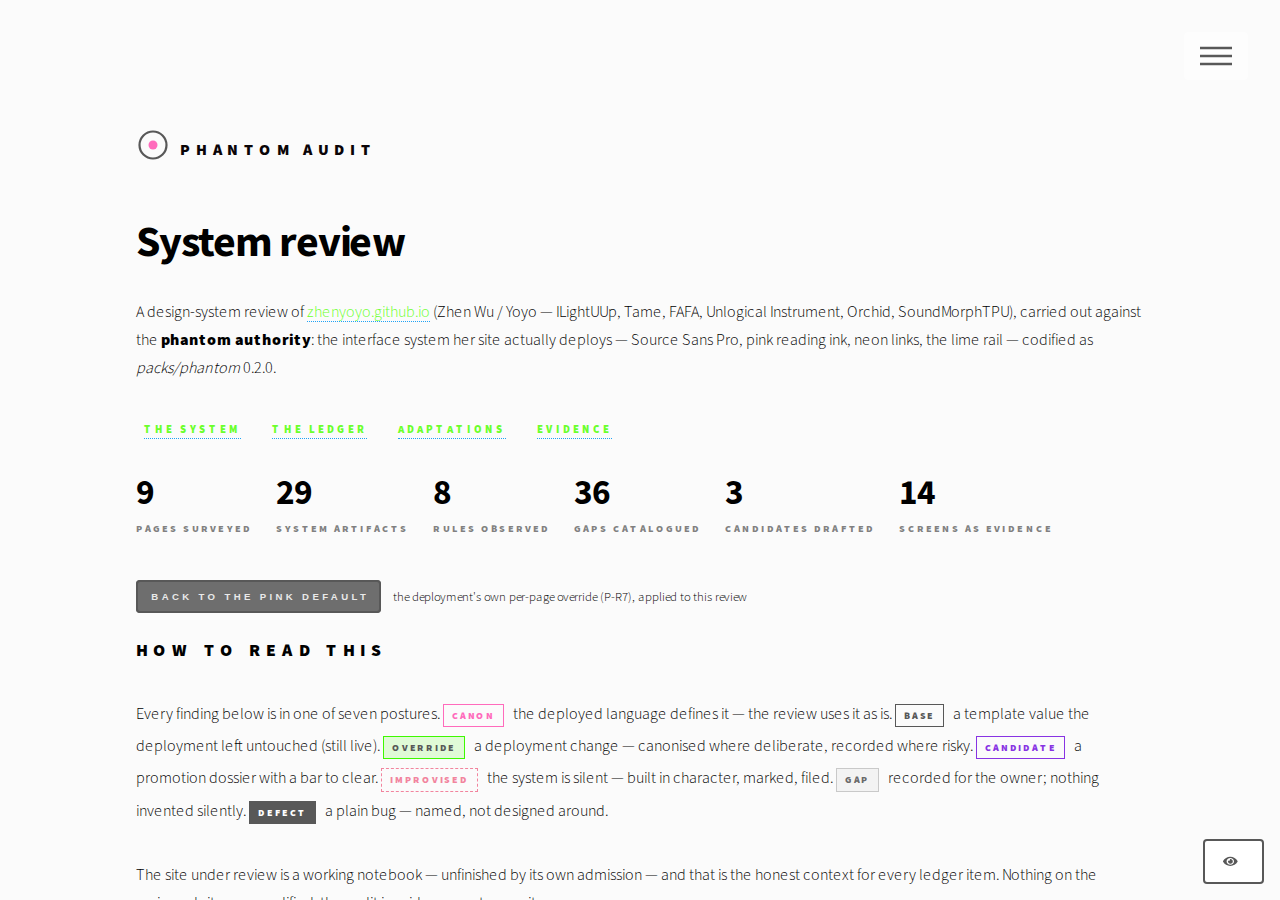
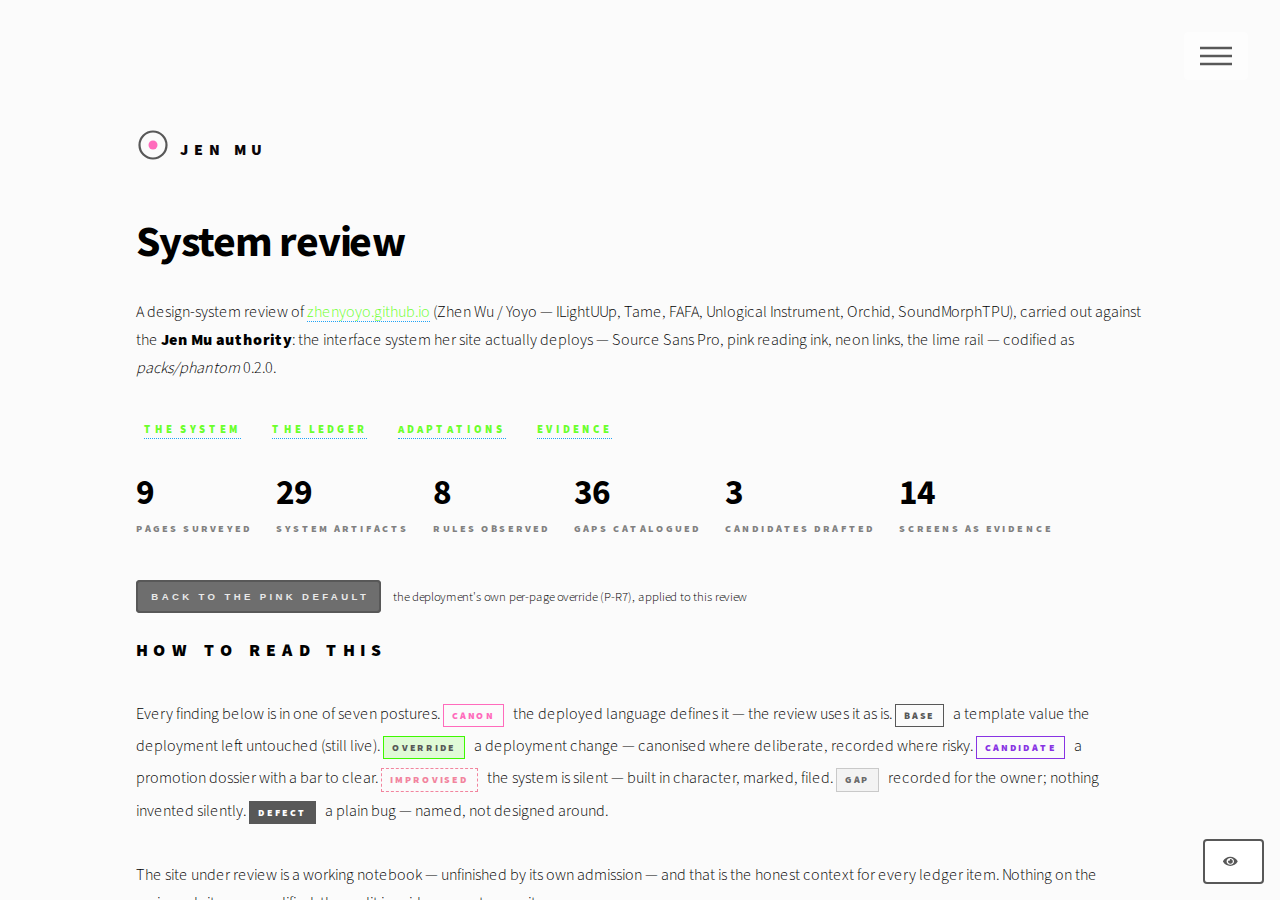
Jen Mu: name the design authority; public path /designAuthority/jenmu; noindex everywhere
- authority named 'Jen Mu' (packs/phantom 0.2.0, goldens 21/21)
- app rebranded: title/wordmark/footer; meta robots noindex; NOTES updated
- review host: /designAuthority/jenmu routes + /designAuthority redirect + robots.txt disallow-all + X-Robots-Tag noindex on every response
- hub card now 'System Review · Jen Mu' -> /designAuthority/jenmu/
- da-review unit made persistent earlier (boot-persistent); verification 15/15, selftest 29/29 re-run

Changed region(s): [[0.125, 0.3733, 0.8438, 0.4044], [0.125, 0.1556, 0.2812, 0.1867]]

diff --git a/examples/phantom-audit/index.html b/examples/phantom-audit/index.html
@@ -1,7 +1,7 @@
 <!DOCTYPE HTML>
 <!--
-  phantom-audit (v2, redo) — a design-system review of zhenyoyo.github.io, built on
-  packs/phantom 0.2.0: the authority is now the site's DEPLOYED language (pass 2,
+  Jen Mu — a design-system review of zhenyoyo.github.io (phantom-audit v2), built on
+  the Jen Mu authority (packs/phantom 0.2.0): the site's DEPLOYED language (pass 2,
   screenshot-first, four domain teams). Page chrome = the deployed system verbatim
   (assets/css/main.css derived from the site's own stylesheet; template "Phantom" by
   HTML5 UP, CCA 3.0 — attribution kept). The console kit (chips, stat row, ledger
@@ -10,9 +10,10 @@
 -->
 <html lang="en">
 	<head>
-		<title>System Review — zhenyoyo.github.io</title>
+		<title>Jen Mu — System Review</title>
 		<meta charset="utf-8" />
 		<meta name="viewport" content="width=device-width, initial-scale=1, user-scalable=no" />
+		<meta name="robots" content="noindex, nofollow" />
 		<meta name="description" content="A design-system review of zhenyoyo.github.io, carried out against packs/phantom 0.2.0 — the site's deployed language as authority." />
 		<link rel="stylesheet" href="assets/css/fontawesome-all.min.css" />
 		<link rel="stylesheet" href="assets/css/main.css" />
@@ -25,7 +26,7 @@
 				<header id="header">
 					<div class="inner">
 						<a href="#overview" class="logo">
-							<span class="symbol"><svg width="34" height="34" viewBox="0 0 34 34" aria-hidden="true" data-improvised data-mk="logo mark (instrument)"><circle cx="17" cy="17" r="13.5" fill="none" stroke="#585858" stroke-width="2.2"/><circle cx="17" cy="17" r="4.5" fill="#ff6bbc"/></svg></span><span class="title">Phantom Audit</span>
+							<span class="symbol"><svg width="34" height="34" viewBox="0 0 34 34" aria-hidden="true" data-improvised data-mk="logo mark (instrument)"><circle cx="17" cy="17" r="13.5" fill="none" stroke="#585858" stroke-width="2.2"/><circle cx="17" cy="17" r="4.5" fill="#ff6bbc"/></svg></span><span class="title">Jen Mu</span>
 						</a>
 						<nav>
 							<ul>
@@ -60,7 +61,7 @@
 								<h1>System review</h1>
 								<p>A design-system review of <a href="https://zhenyoyo.github.io/" target="_blank" rel="noopener">zhenyoyo.github.io</a>
 								(Zhen Wu / Yoyo — ILightUUp, Tame, FAFA, Unlogical Instrument, Orchid, SoundMorphTPU), carried out
-								against the <strong>phantom authority</strong>: the interface system her site actually deploys — Source Sans Pro,
+								against the <strong>Jen Mu authority</strong>: the interface system her site actually deploys — Source Sans Pro,
 								pink reading ink, neon links, the lime rail — codified as <em>packs/phantom</em> 0.2.0.</p>
 							</header>
 							<ul class="snav" data-improvised data-mk="section nav (console kit)">
@@ -172,7 +173,7 @@
 							</ul>
 						</section>
 						<ul class="copyright">
-							<li>phantom-audit v2 — built on packs/phantom 0.2.0 · console additions marked, never canon</li>
+							<li>Jen Mu — system review built on packs/phantom 0.2.0 · console additions marked, never canon</li>
 						</ul>
 					</div>
 				</footer>

diff --git a/docs/synthesis/review-app/app.py b/docs/synthesis/review-app/app.py
@@ -11,8 +11,8 @@ import re
 import time
 
 from bs4 import BeautifulSoup
-from flask import (Flask, abort, jsonify, render_template_string, request,
-                   send_from_directory)
+from flask import (Flask, Response, abort, jsonify, redirect,
+                   render_template_string, request, send_from_directory)
 
 ROOT = os.path.dirname(os.path.abspath(__file__))
 SYN = os.path.dirname(ROOT)                      # docs/synthesis
@@ -663,8 +663,8 @@ def demo():
                 "<p>rebuilt on the codified authority (0.2.0 + precedents)</p>"
                 "<p><span class='chip'>%d gaps filed</span> <span class='chip src'>open &rarr;</span></p></a>"
                 % (name, name, gaps))
-    audit = ("<a class='src' href='/audit/phantom/'><b>System Review &middot; phantom</b>"
-             "<p>design-system review of zhenyoyo.github.io — pass 2, the deployed language &amp; the screens behind it</p>"
+    audit = ("<a class='src' href='/designAuthority/jenmu/'><b>System Review &middot; Jen Mu</b>"
+             "<p>the design authority of zhenyoyo.github.io (deployed language) — 36 ledger items &amp; the screens behind them</p>"
              "<p><span class='chip'>36 ledger items</span> <span class='chip src'>open &rarr;</span></p></a>")
     return (DEMO_LANDING.replace("__CSS__", DEMO_CSS)
             .replace("__CARDS__", "".join(cards))
@@ -833,6 +833,35 @@ def audit_file(name, fn):
     if not os.path.isdir(d):
         abort(404)
     return send_from_directory(d, fn)
+
+
+# ---- the Jen Mu review at its public path (audit.seanyong.xyz/designAuthority/jenmu) ----
+@app.route("/designAuthority/jenmu", strict_slashes=False)
+def jenmu_index():
+    return send_from_directory(os.path.join(_REPO, "examples", "phantom-audit"), "index.html")
+
+
+@app.route("/designAuthority/jenmu/<path:fn>")
+def jenmu_file(fn):
+    return send_from_directory(os.path.join(_REPO, "examples", "phantom-audit"), fn)
+
+
+@app.route("/designAuthority/")
+@app.route("/designAuthority")
+def jenmu_redirect():
+    return redirect("/designAuthority/jenmu/", code=302)
+
+
+@app.route("/robots.txt")
+def robots_txt():
+    return Response("User-agent: *\nDisallow: /\n", mimetype="text/plain")
+
+
+@app.after_request
+def _noindex_everything(resp):
+    """Everything served by this review host is noindex — nothing here is for search engines."""
+    resp.headers["X-Robots-Tag"] = "noindex, nofollow"
+    return resp
 
 
 @app.route("/api/demo/resolve", methods=["POST"])

diff --git a/docs/synthesis/phantom/tools/build_phantom_pack_v2.py b/docs/synthesis/phantom/tools/build_phantom_pack_v2.py
@@ -35,11 +35,11 @@ def A(aid, kind, title, summary, aliases, body, source, compiled_from, status="s
 # ------------------------------------------------------------- authority ----
 auth = json.load(open(os.path.join(REPO, "packs", "wink", "authority.json")))
 auth.update({
-    "id": "phantom", "name": "Phantom Interface System (deployed language)", "version": "0.2.0",
+    "id": "phantom", "name": "Jen Mu", "version": "0.2.0",
     "snapshot": {"repo": DEP, "commit": "n/a - public sources", "branch": "n/a",
                  "version": "pass-2 redo 2026-10-08 (screenshot-first, 4 domain teams)",
                  "path_hint": "docs/synthesis/phantom/_raw/site/ (renderable mirror)"},
-    "description": ("The interface system of zhenyoyo.github.io as deployed: Source Sans Pro 300/700/900, "
+    "description": ("The Jen Mu design authority — the interface system of zhenyoyo.github.io as deployed: Source Sans Pro 300/700/900, "
                     "pink reading ink #ff6bbc with neon-green links #6bff2c on a dotted blue underline, "
                     "blue-ground code, a lime slide-in menu, red checked marks with purple labels, "
                     "radius flattened to 0 on marks/boxes/images/chips, ink-ring buttons, underline fields, "

diff --git a/examples/phantom-audit/NOTES.md b/examples/phantom-audit/NOTES.md
@@ -1,9 +1,9 @@
-# phantom-audit v2 — build notes (redo: the deployed language, screenshot-first)
+# Jen Mu (phantom-audit v2) — build notes (the deployed language, screenshot-first)
 
 **What this is.** A five-section review console — Overview · The system · The
 ledger · Adaptations · Evidence — auditing **zhenyoyo.github.io** (Zhen Wu /
 Yoyo; ILightUUp, Tame, FAFA, Unlogical Instrument, Orchid, SoundMorphTPU)
-against **`packs/phantom` 0.2.0**: the site's *deployed* interface language,
+against the **Jen Mu authority** (`packs/phantom` 0.2.0): the site's *deployed* interface language,
 extracted pass-2 from rendered evidence. The console is built in that same
 language — it wears what it reviews (pink reading ink, green links on the
 dotted blue underline, the blue code chip, the lime rail).
@@ -71,6 +71,8 @@ Source Sans Pro: SIL OFL. The reviewed site remains its author's; this review
 is constructive commentary from public sources; no site imagery is
 redistributed beyond the captured evidence shots.
 
-**Serve.** `/audit/phantom/` on the synthesis review app (tailnet:
-https://gpu-vm1.bigscale-snapper.ts.net:8420/audit/phantom/), carded on the
-`/demo` hub.
+**Serve.** `/designAuthority/jenmu/` on the synthesis review app (tailnet:
+https://gpu-vm1.bigscale-snapper.ts.net:8420/designAuthority/jenmu/; public once the
+tunnel lands: https://audit.seanyong.xyz/designAuthority/jenmu). The host serves
+`X-Robots-Tag: noindex` on everything and a disallow-all robots.txt. Named **Jen Mu**
+2026-10-08.
